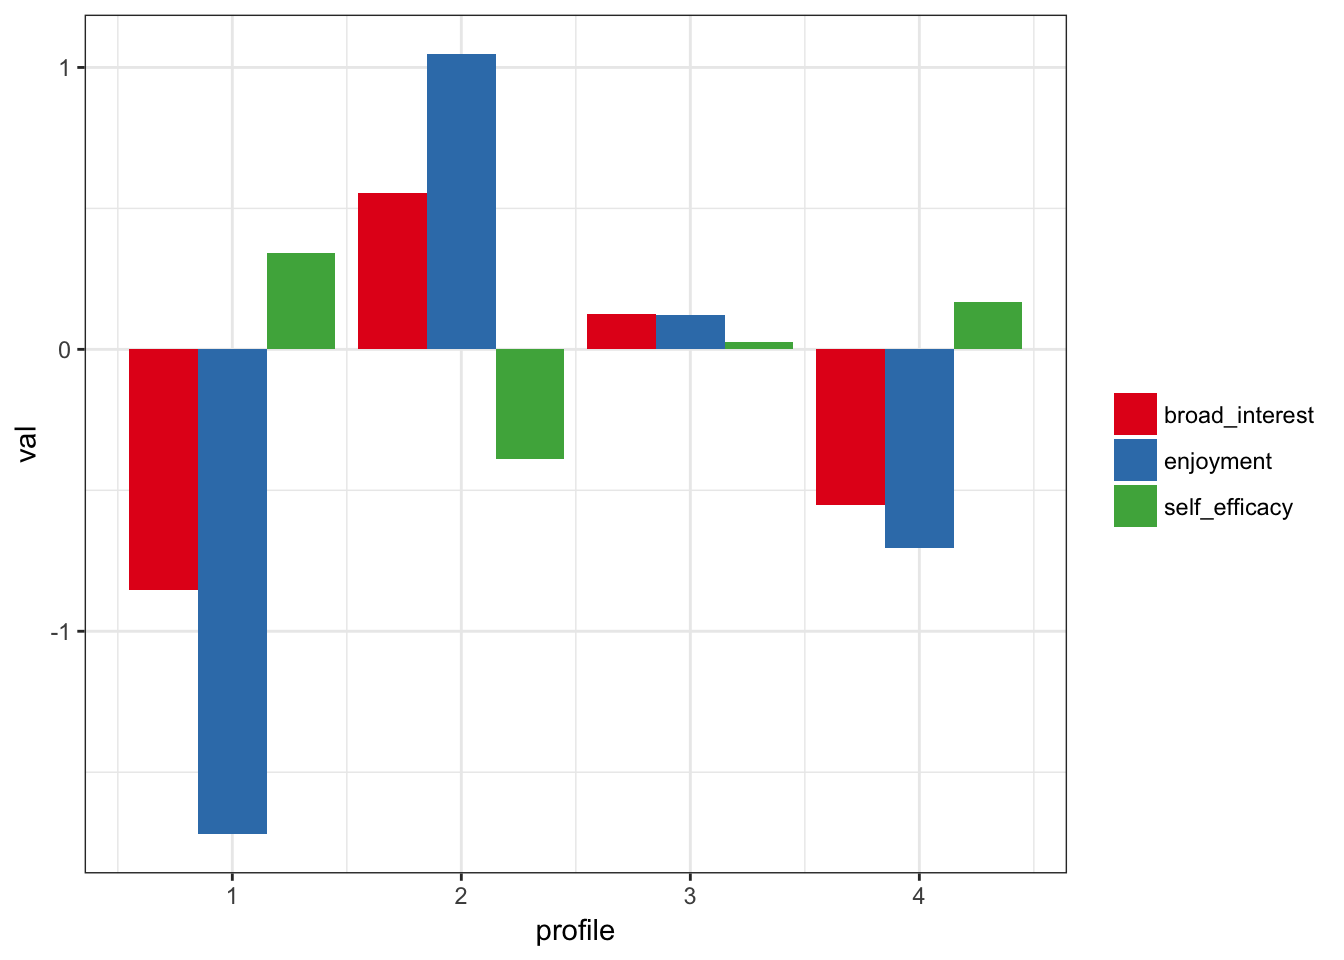
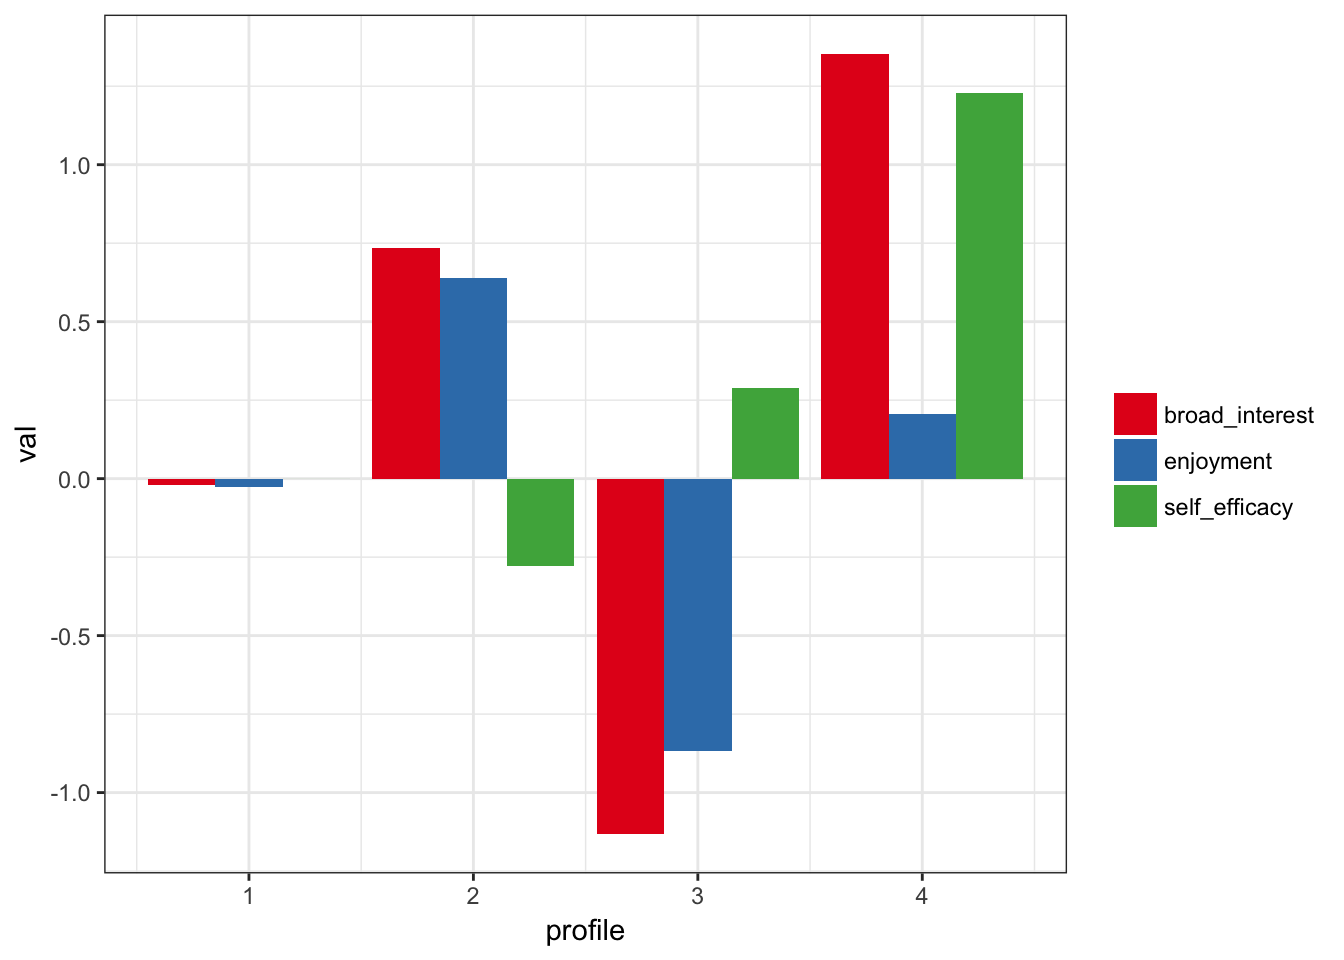
update in response to R CMD check

diff --git a/docs/articles/Introduction_to_tidyLPA.html b/docs/articles/Introduction_to_tidyLPA.html
@@ -59,7 +59,7 @@
 <div id="background" class="section level1">
 <h1 class="hasAnchor">
 <a href="#background" class="anchor"></a>Background</h1>
-<p><code>tidyLPA</code> provides an interface to the powerful MCLUST package to easily carry out Latent Profile Analysis (LPA). Its main contribution is corresponding that are commonly specified when carrying out LPA. Its secondary contribution is to make it easier to use the output in subsequent analysis through a tidy user interface, in that output is in the form of a tibble (closely related to a data.frame) that can subsequently be computed on.</p>
+<p><code>tidyLPA</code> provides an interface to the powerful MCLUST package to easily carry out Latent Profile Analysis (LPA). Its main contribution is corresponding that are commonly specified when carrying out LPA. Its secondary contribution is to make it easier to use the output in subsequent analysis through a tidy user interface, in that output is in the form of a <code>tibble</code> (closely related to a <code>data.frame</code>) that can subsequently be computed on.</p>
 <p>The goal of <code>tidyLPA</code> is to provide tools to make it easier to use the <code>R</code> package <a href="http://www.stat.washington.edu/mclust/">MCLUST</a> for Latent Profile Analysis analyses.</p>
 <p>This is a sister-project to <a href="https://github.com/jrosen48/prcr">prcr</a>, for two-step cluster analysis. <code>tidyLPA</code> has been benchmarked to MPlus, at least for a simple dataset (the <a href="https://en.wikipedia.org/wiki/Iris_flower_data_set">iris dataset</a>) and with three of the most common model specifications. You can find the results of that benchmarking, which showed the results to be nearly, identical, <a href="https://jrosen48.github.io/blog/comparing-mplus-and-mclust-output/">here</a>.</p>
 </div>
@@ -82,24 +82,24 @@ d &lt;-<span class="st"> </span>pisaUSA15
 d &lt;-<span class="st"> </span><span class="kw">sample_n</span>(pisaUSA15, <span class="dv">500</span>)
 <span class="kw"><a href="../reference/create_profiles_lpa.html">create_profiles_lpa</a></span>(d, broad_interest, enjoyment, self_efficacy, <span class="dt">n_profiles =</span> <span class="dv">4</span>, <span class="dt">model =</span> <span class="dv">2</span>)
 <span class="co">#&gt; Model with 4 profiles using the 'varying means, equal variances and covariances' model.</span>
-<span class="co">#&gt; AIC is 2675.152</span>
-<span class="co">#&gt; BIC is 2762.538</span>
-<span class="co">#&gt; ICL is 2792.197</span>
-<span class="co">#&gt; Entropy is 0.97233</span>
-<span class="co">#&gt; # A tibble: 474 x 5</span>
+<span class="co">#&gt; AIC is 2834.176</span>
+<span class="co">#&gt; BIC is 2921.383</span>
+<span class="co">#&gt; ICL is 3334.484</span>
+<span class="co">#&gt; Entropy is 0.65612</span>
+<span class="co">#&gt; # A tibble: 470 x 5</span>
 <span class="co">#&gt;    broad_interest enjoyment self_efficacy profile posterior_prob</span>
 <span class="co">#&gt;             &lt;dbl&gt;     &lt;dbl&gt;         &lt;dbl&gt;   &lt;dbl&gt;          &lt;dbl&gt;</span>
-<span class="co">#&gt;  1            2.2       2.0         2.000       4        0.99994</span>
-<span class="co">#&gt;  2            1.2       2.2         3.000       4        0.99771</span>
-<span class="co">#&gt;  3            2.0       2.8         3.375       3        0.99921</span>
-<span class="co">#&gt;  4            3.6       3.8         1.500       2        0.99971</span>
-<span class="co">#&gt;  5            3.0       2.8         3.125       3        0.99957</span>
-<span class="co">#&gt;  6            1.0       2.2         2.000       4        0.99925</span>
-<span class="co">#&gt;  7            1.0       1.8         2.000       4        0.99758</span>
-<span class="co">#&gt;  8            2.2       1.8         3.000       4        0.99865</span>
-<span class="co">#&gt;  9            3.0       3.0         2.625       3        0.99994</span>
-<span class="co">#&gt; 10            3.2       3.6         1.625       2        0.97267</span>
-<span class="co">#&gt; # ... with 464 more rows</span></code></pre></div>
+<span class="co">#&gt;  1            3.0       2.6         2.000       1        0.61932</span>
+<span class="co">#&gt;  2            3.2       2.4         2.375       1        0.57883</span>
+<span class="co">#&gt;  3            4.0       3.6         2.625       2        0.53251</span>
+<span class="co">#&gt;  4            3.6       3.8         2.000       2        0.73080</span>
+<span class="co">#&gt;  5            2.0       3.0         3.500       1        0.69102</span>
+<span class="co">#&gt;  6            2.0       2.0         2.250       3        0.63852</span>
+<span class="co">#&gt;  7            2.2       3.0         2.000       1        0.69583</span>
+<span class="co">#&gt;  8            3.2       3.2         2.375       2        0.54036</span>
+<span class="co">#&gt;  9            2.8       3.0         1.000       1        0.64184</span>
+<span class="co">#&gt; 10            2.6       2.6         2.625       1        0.69420</span>
+<span class="co">#&gt; # ... with 460 more rows</span></code></pre></div>
 <p>You can see the output is simply the same <code>tibble</code> that is input as the first function to <code>create_profiles_LPA</code>, but modified so that the classification and posterior probability of the classification are added (and incomplete cases with respect to the variables used to estimate the profiles removed).</p>
 <p>A bit more information the models. While <code>MCLUST</code> has a wide variety of models available (see <code>mclust::mclustModelNames()</code> for a full list), the three that are most commonly specified when carrying out LPA.</p>
 <ol style="list-style-type: decimal">
@@ -111,18 +111,18 @@ d &lt;-<span class="st"> </span><span class="kw">sample_n</span>(pisaUSA15, <spa
 <div class="sourceCode"><pre class="sourceCode r"><code class="sourceCode r"><span class="kw"><a href="../reference/create_profiles_lpa.html">create_profiles_lpa</a></span>(d, broad_interest, enjoyment, self_efficacy, <span class="dt">n_profiles =</span> <span class="dv">4</span>, <span class="dt">model =</span> <span class="dv">2</span>) <span class="op">%&gt;%</span><span class="st"> </span>
 <span class="st">    </span><span class="kw"><a href="../reference/plot_profiles_lpa.html">plot_profiles_lpa</a></span>()
 <span class="co">#&gt; Model with 4 profiles using the 'varying means, equal variances and covariances' model.</span>
-<span class="co">#&gt; AIC is 2675.152</span>
-<span class="co">#&gt; BIC is 2762.538</span>
-<span class="co">#&gt; ICL is 2792.197</span>
-<span class="co">#&gt; Entropy is 0.97233</span></code></pre></div>
+<span class="co">#&gt; AIC is 2834.176</span>
+<span class="co">#&gt; BIC is 2921.383</span>
+<span class="co">#&gt; ICL is 3334.484</span>
+<span class="co">#&gt; Entropy is 0.65612</span></code></pre></div>
 <p><img src="Introduction_to_tidyLPA_files/figure-html/unnamed-chunk-5-1.png" width="672"></p>
 <p>Below is identical to the two lines of code above, except that instead of using the pipe, we save the output the object <code>m3</code>, and then call the <code><a href="../reference/plot_profiles_lpa.html">plot_profiles_lpa()</a></code> function on the output that it points to.</p>
 <div class="sourceCode"><pre class="sourceCode r"><code class="sourceCode r">m3 &lt;-<span class="st"> </span><span class="kw"><a href="../reference/create_profiles_lpa.html">create_profiles_lpa</a></span>(d, broad_interest, enjoyment, self_efficacy, <span class="dt">n_profiles =</span> <span class="dv">4</span>, <span class="dt">model =</span> <span class="dv">2</span>)
 <span class="co">#&gt; Model with 4 profiles using the 'varying means, equal variances and covariances' model.</span>
-<span class="co">#&gt; AIC is 2675.152</span>
-<span class="co">#&gt; BIC is 2762.538</span>
-<span class="co">#&gt; ICL is 2792.197</span>
-<span class="co">#&gt; Entropy is 0.97233</span>
+<span class="co">#&gt; AIC is 2834.176</span>
+<span class="co">#&gt; BIC is 2921.383</span>
+<span class="co">#&gt; ICL is 3334.484</span>
+<span class="co">#&gt; Entropy is 0.65612</span>
 <span class="kw"><a href="../reference/plot_profiles_lpa.html">plot_profiles_lpa</a></span>(m3, <span class="dt">to_center =</span> <span class="ot">TRUE</span>)</code></pre></div>
 <p><img src="Introduction_to_tidyLPA_files/figure-html/unnamed-chunk-6-1.png" width="672"></p>
 </div>
@@ -132,36 +132,35 @@ d &lt;-<span class="st"> </span><span class="kw">sample_n</span>(pisaUSA15, <spa
 <p>In addition to being used as part of a “tidy” approach, there is also an option to use it as part of a more conventional, object-oriented approach. In this example, instead of outputting a <code>tibble</code>, we will output an object of class <code>Mclust</code>.</p>
 <div class="sourceCode"><pre class="sourceCode r"><code class="sourceCode r">m3_mclust &lt;-<span class="st"> </span><span class="kw"><a href="../reference/create_profiles_lpa.html">create_profiles_lpa</a></span>(d, broad_interest, enjoyment, self_efficacy, <span class="dt">n_profiles =</span> <span class="dv">4</span>, <span class="dt">model =</span> <span class="dv">2</span>, <span class="dt">to_return =</span> <span class="st">"mclust"</span>)
 <span class="co">#&gt; Model with 4 profiles using the 'varying means, equal variances and covariances' model.</span>
-<span class="co">#&gt; AIC is 2675.152</span>
-<span class="co">#&gt; BIC is 2762.538</span>
-<span class="co">#&gt; ICL is 2792.197</span>
-<span class="co">#&gt; Entropy is 0.97233</span></code></pre></div>
+<span class="co">#&gt; AIC is 2834.176</span>
+<span class="co">#&gt; BIC is 2921.383</span>
+<span class="co">#&gt; ICL is 3334.484</span>
+<span class="co">#&gt; Entropy is 0.65612</span></code></pre></div>
 <p>Any of the functions from the <a href="http://www.stat.washington.edu/mclust/">MCLUST package</a> that work with this type of output will work on this output; the only difference is that the model is specified in this package (with the <code><a href="../reference/create_profiles_lpa.html">create_profiles_lpa()</a></code> function) instead of the <code>Mclust()</code> function from the <code>MCLUST package</code>.</p>
 <p>In addition, a number of helper functions are available for extracting various model information.</p>
 <div class="sourceCode"><pre class="sourceCode r"><code class="sourceCode r"><span class="kw"><a href="../reference/extract_mclust_summary.html">extract_mclust_summary</a></span>(m3_mclust)
 <span class="co">#&gt;          LL      BIC Entropy</span>
-<span class="co">#&gt; 1 -1316.576 2762.538   0.972</span>
+<span class="co">#&gt; 1 -1396.088 2921.383   0.656</span>
 <span class="kw"><a href="../reference/extract_variance.html">extract_variance</a></span>(m3_mclust)
-<span class="co">#&gt; [1] 4</span>
 <span class="co">#&gt; # A tibble: 3 x 4</span>
 <span class="co">#&gt;   param_name       var_name   class   est</span>
 <span class="co">#&gt;        &lt;chr&gt;          &lt;chr&gt;   &lt;chr&gt; &lt;dbl&gt;</span>
-<span class="co">#&gt; 1  Variances broad_interest class_4 0.393</span>
-<span class="co">#&gt; 2  Variances      enjoyment class_4 0.040</span>
-<span class="co">#&gt; 3  Variances  self_efficacy class_4 0.405</span>
+<span class="co">#&gt; 1  Variances broad_interest class_4 0.264</span>
+<span class="co">#&gt; 2  Variances      enjoyment class_4 0.358</span>
+<span class="co">#&gt; 3  Variances  self_efficacy class_4 0.398</span>
 <span class="kw"><a href="../reference/extract_covariance.html">extract_covariance</a></span>(m3_mclust)
 <span class="co">#&gt; # A tibble: 9 x 3</span>
 <span class="co">#&gt;      param_name   var_name         est</span>
 <span class="co">#&gt;           &lt;chr&gt;      &lt;chr&gt;       &lt;dbl&gt;</span>
-<span class="co">#&gt; 1 BROAD_IN_WITH BROAD_INTE  0.39303498</span>
-<span class="co">#&gt; 2 ENJOYMEN_WITH BROAD_INTE  0.01892561</span>
-<span class="co">#&gt; 3 SELF_EFF_WITH BROAD_INTE -0.03504551</span>
-<span class="co">#&gt; 4 BROAD_IN_WITH  ENJOYMENT  0.01892561</span>
-<span class="co">#&gt; 5 ENJOYMEN_WITH  ENJOYMENT  0.04028440</span>
-<span class="co">#&gt; 6 SELF_EFF_WITH  ENJOYMENT -0.02394997</span>
-<span class="co">#&gt; 7 BROAD_IN_WITH SELF_EFFIC -0.03504551</span>
-<span class="co">#&gt; 8 ENJOYMEN_WITH SELF_EFFIC -0.02394997</span>
-<span class="co">#&gt; 9 SELF_EFF_WITH SELF_EFFIC  0.40517703</span></code></pre></div>
+<span class="co">#&gt; 1 BROAD_IN_WITH BROAD_INTE  0.26396277</span>
+<span class="co">#&gt; 2 ENJOYMEN_WITH BROAD_INTE  0.05383697</span>
+<span class="co">#&gt; 3 SELF_EFF_WITH BROAD_INTE -0.06443916</span>
+<span class="co">#&gt; 4 BROAD_IN_WITH  ENJOYMENT  0.05383697</span>
+<span class="co">#&gt; 5 ENJOYMEN_WITH  ENJOYMENT  0.35772582</span>
+<span class="co">#&gt; 6 SELF_EFF_WITH  ENJOYMENT -0.11644558</span>
+<span class="co">#&gt; 7 BROAD_IN_WITH SELF_EFFIC -0.06443916</span>
+<span class="co">#&gt; 8 ENJOYMEN_WITH SELF_EFFIC -0.11644558</span>
+<span class="co">#&gt; 9 SELF_EFF_WITH SELF_EFFIC  0.39775670</span></code></pre></div>
 </div>
 <div id="comparing-many-models-using-information-criteria" class="section level3">
 <h3 class="hasAnchor">

diff --git a/docs/index.html b/docs/index.html
@@ -57,6 +57,13 @@
 <a href="#tidylpa" class="anchor"></a>tidyLPA</h1></div>
 <p>The goal of <code>tidyLPA</code> is to provide tools to make it easier to use the <code>R</code> package <a href="http://www.stat.washington.edu/mclust/">MCLUST</a> for Latent Profile Analysis analyses.</p>
 <p>This is a sister-project to <a href="https://github.com/jrosen48/prcr">prcr</a>, for two-step cluster analysis. tidyLPA (which, again, is an interface to the <code>MCLUST</code> package) has been benchmarked to MPlus, at least for a simple dataset (the <a href="https://en.wikipedia.org/wiki/Iris_flower_data_set">iris dataset</a>). You can find the results of that benchmarking, which showed the results to be nearly, identical, <a href="https://jrosen48.github.io/blog/comparing-mplus-and-mclust-output/">here</a>.</p>
+<div id="installation" class="section level2">
+<h2 class="hasAnchor">
+<a href="#installation" class="anchor"></a>Installation</h2>
+<p>You can install tidyLPA from github with:</p>
+<div class="sourceCode"><pre class="sourceCode r"><code class="sourceCode r"><span class="co"># install.packages("devtools")</span>
+devtools<span class="op">::</span><span class="kw">install_github</span>(<span class="st">"jrosen48/tidymixmod"</span>)</code></pre></div>
+</div>
 </div>
 <div id="example" class="section level1">
 <h1 class="hasAnchor">
@@ -77,27 +84,25 @@ d &lt;-<span class="st"> </span>pisaUSA15
 d &lt;-<span class="st"> </span><span class="kw">sample_frac</span>(d, .<span class="dv">5</span>)
 m3 &lt;-<span class="st"> </span><span class="kw"><a href="reference/create_profiles_lpa.html">create_profiles_lpa</a></span>(d, broad_interest, enjoyment, self_efficacy, <span class="dt">n_profiles =</span> <span class="dv">3</span>, <span class="dt">model =</span> <span class="dv">2</span>)
 <span class="co">#&gt; Model with 3 profiles using the 'varying means, equal variances and covariances' model.</span>
-<span class="co">#&gt; AIC is 16125.341</span>
-<span class="co">#&gt; BIC is 16225.519</span>
-<span class="co">#&gt; ICL is 19589.186</span>
-<span class="co">#&gt; Entropy is 0.54397</span>
+<span class="co">#&gt; AIC is 16490.466</span>
+<span class="co">#&gt; BIC is 16590.808</span>
+<span class="co">#&gt; ICL is 19394.395</span>
+<span class="co">#&gt; Entropy is 0.60566</span>
 m3
-<span class="co">#&gt; # A tibble: 2,678 x 5</span>
+<span class="co">#&gt; # A tibble: 2,704 x 5</span>
 <span class="co">#&gt;    broad_interest enjoyment self_efficacy profile posterior_prob</span>
 <span class="co">#&gt;             &lt;dbl&gt;     &lt;dbl&gt;         &lt;dbl&gt;   &lt;dbl&gt;          &lt;dbl&gt;</span>
-<span class="co">#&gt;  1            1.6       2.0         3.000       2        0.46898</span>
-<span class="co">#&gt;  2            3.4       3.8         1.000       3        0.53517</span>
-<span class="co">#&gt;  3            2.6       2.2         3.125       2        0.51038</span>
-<span class="co">#&gt;  4            3.0       2.4         2.375       2        0.50348</span>
-<span class="co">#&gt;  5            4.4       3.0         1.500       3        0.53357</span>
-<span class="co">#&gt;  6            3.0       3.0         1.000       2        0.50654</span>
-<span class="co">#&gt;  7            3.4       3.2         1.375       3        0.51145</span>
-<span class="co">#&gt;  8            2.6       1.0         1.875       1        0.98630</span>
-<span class="co">#&gt;  9            2.4       3.0         2.500       2        0.51382</span>
-<span class="co">#&gt; 10            3.0       2.6         3.000       2        0.50538</span>
-<span class="co">#&gt; # ... with 2,668 more rows</span>
-<span class="kw"><a href="reference/plot_profiles_lpa.html">plot_profiles_lpa</a></span>(m3, <span class="dt">to_center =</span> <span class="ot">TRUE</span>)</code></pre></div>
-<p><img src="README-unnamed-chunk-3-1.png" width="672"></p>
+<span class="co">#&gt;  1            2.6       3.8         2.125       2        0.60914</span>
+<span class="co">#&gt;  2            1.6       3.0         1.625       2        0.58262</span>
+<span class="co">#&gt;  3            1.4       2.2         2.500       2        0.50547</span>
+<span class="co">#&gt;  4            3.8       4.0         1.875       2        0.62142</span>
+<span class="co">#&gt;  5            2.6       2.6         2.000       2        0.56822</span>
+<span class="co">#&gt;  6            3.0       3.0         1.500       2        0.59178</span>
+<span class="co">#&gt;  7            1.6       3.0         2.875       2        0.58483</span>
+<span class="co">#&gt;  8            3.0       2.6         3.000       2        0.58207</span>
+<span class="co">#&gt;  9            2.4       3.0         2.000       2        0.58927</span>
+<span class="co">#&gt; 10            2.8       3.0         1.500       2        0.59040</span>
+<span class="co">#&gt; # ... with 2,694 more rows</span></code></pre></div>
 </div>
 </div>
   </div>
@@ -111,6 +116,7 @@ m3
 <li>Joshua M Rosenberg <br><small class="roles"> Author, maintainer </small> </li>
 <li>Jennifer A Schmidt <br><small class="roles"> Author </small> </li>
 <li>Patrick N Beymer <br><small class="roles"> Author </small> </li>
+<li><a href="authors.html">All authors...</a></li>
 </ul>
 </div>
 

diff --git a/docs/authors.html b/docs/authors.html
@@ -88,6 +88,10 @@
         <p><strong>Patrick N Beymer</strong>. Author.
         </p>
       </li>
+      <li>
+        <p><strong>Rebecca R Steingut</strong>. Contributor.
+        </p>
+      </li>
     </ul>
 
   </div>

diff --git a/README.md b/README.md
@@ -42,26 +42,23 @@ d <- pisaUSA15
 d <- sample_frac(d, .5)
 m3 <- create_profiles_lpa(d, broad_interest, enjoyment, self_efficacy, n_profiles = 3, model = 2)
 #> Model with 3 profiles using the 'varying means, equal variances and covariances' model.
-#> AIC is 16299.539
-#> BIC is 16399.806
-#> ICL is 18859.778
-#> Entropy is 0.64094
+#> AIC is 16106.59
+#> BIC is 16206.787
+#> ICL is 16698.022
+#> Entropy is 0.92087
 m3
-#> # A tibble: 2,692 x 5
+#> # A tibble: 2,681 x 5
 #>    broad_interest enjoyment self_efficacy profile posterior_prob
 #>             <dbl>     <dbl>         <dbl>   <dbl>          <dbl>
-#>  1           2.00       1.0      3.000000       1        0.96493
-#>  2           2.40       3.6      2.750000       3        0.60204
-#>  3           2.40       3.0      2.750000       3        0.65147
-#>  4           2.80       2.6      1.500000       3        0.64193
-#>  5           2.25       2.0      2.125000       3        0.46955
-#>  6           3.00       3.0      2.000000       3        0.63512
-#>  7           2.20       3.0      3.857143       3        0.65411
-#>  8           1.00       1.0      2.142857       1        0.99028
-#>  9           3.20       3.0      2.000000       3        0.62924
-#> 10           2.50       3.0      2.000000       3        0.64958
-#> # ... with 2,682 more rows
-plot_profiles_lpa(m3, to_center = TRUE)
+#>  1            2.2       2.8         1.500       2        0.98343
+#>  2            2.6       2.4         2.375       2        0.99106
+#>  3            2.8       2.8         2.500       2        0.99162
+#>  4            2.2       2.8         1.000       2        0.98168
+#>  5            2.4       3.6         2.875       3        0.75493
+#>  6            1.8       2.5         2.000       2        0.99541
+#>  7            3.2       3.0         2.000       2        0.97364
+#>  8            1.4       2.2         2.750       2        0.98097
+#>  9            3.2       3.0         1.000       2        0.96800
+#> 10            3.4       3.2         2.125       2        0.91580
+#> # ... with 2,671 more rows
 ```
-
-![](README-unnamed-chunk-3-1.png)
